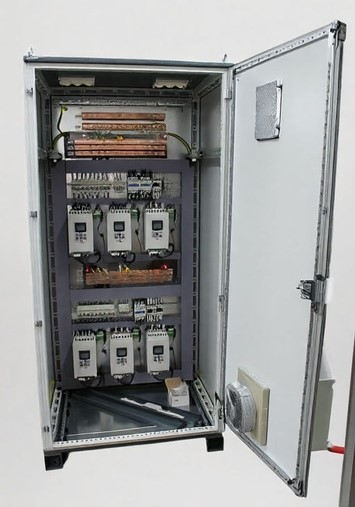
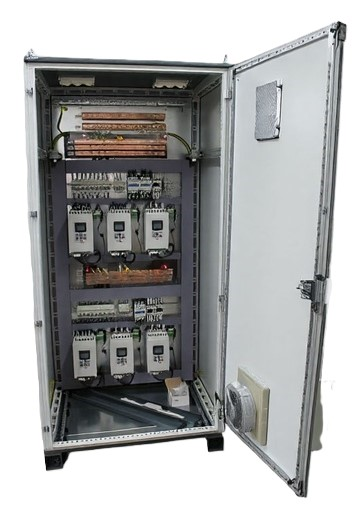
Быстрое обновление 10.02.2026 16:31:53,51

diff --git a/js/products-api.js b/js/products-api.js
@@ -8,7 +8,7 @@ class ProductsAPI {
     this.productsData = null;
     this.loadPromise = null;
     // Версия для кэш-бастинга картинок (увеличивайте при обновлении картинок)
-    this.imageVersion = '2';
+    this.imageVersion = '5';
   }
 
   // Добавляет версию к URL картинки для обхода кэша браузера
